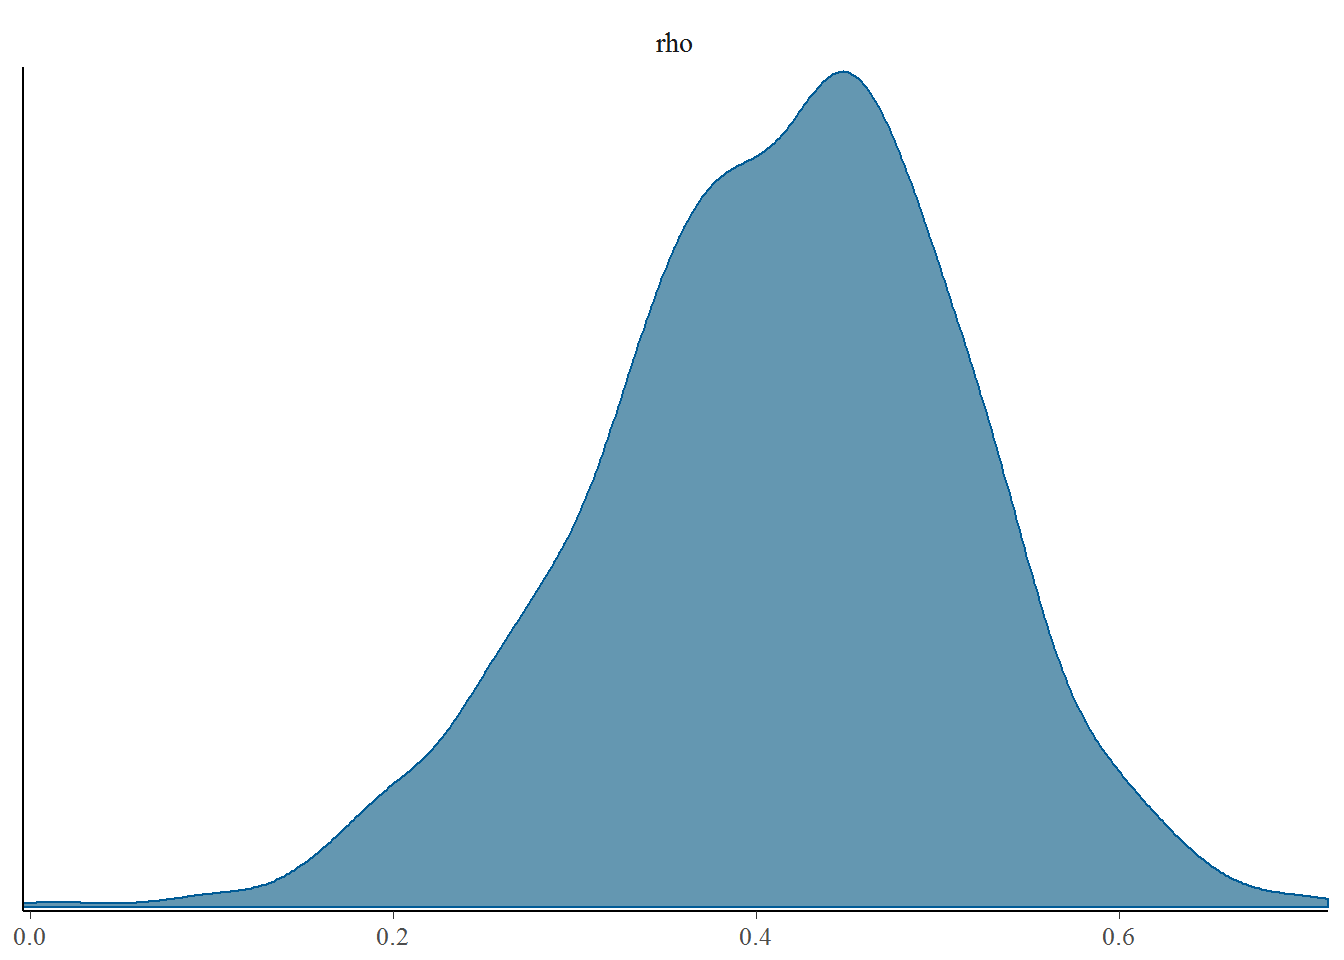
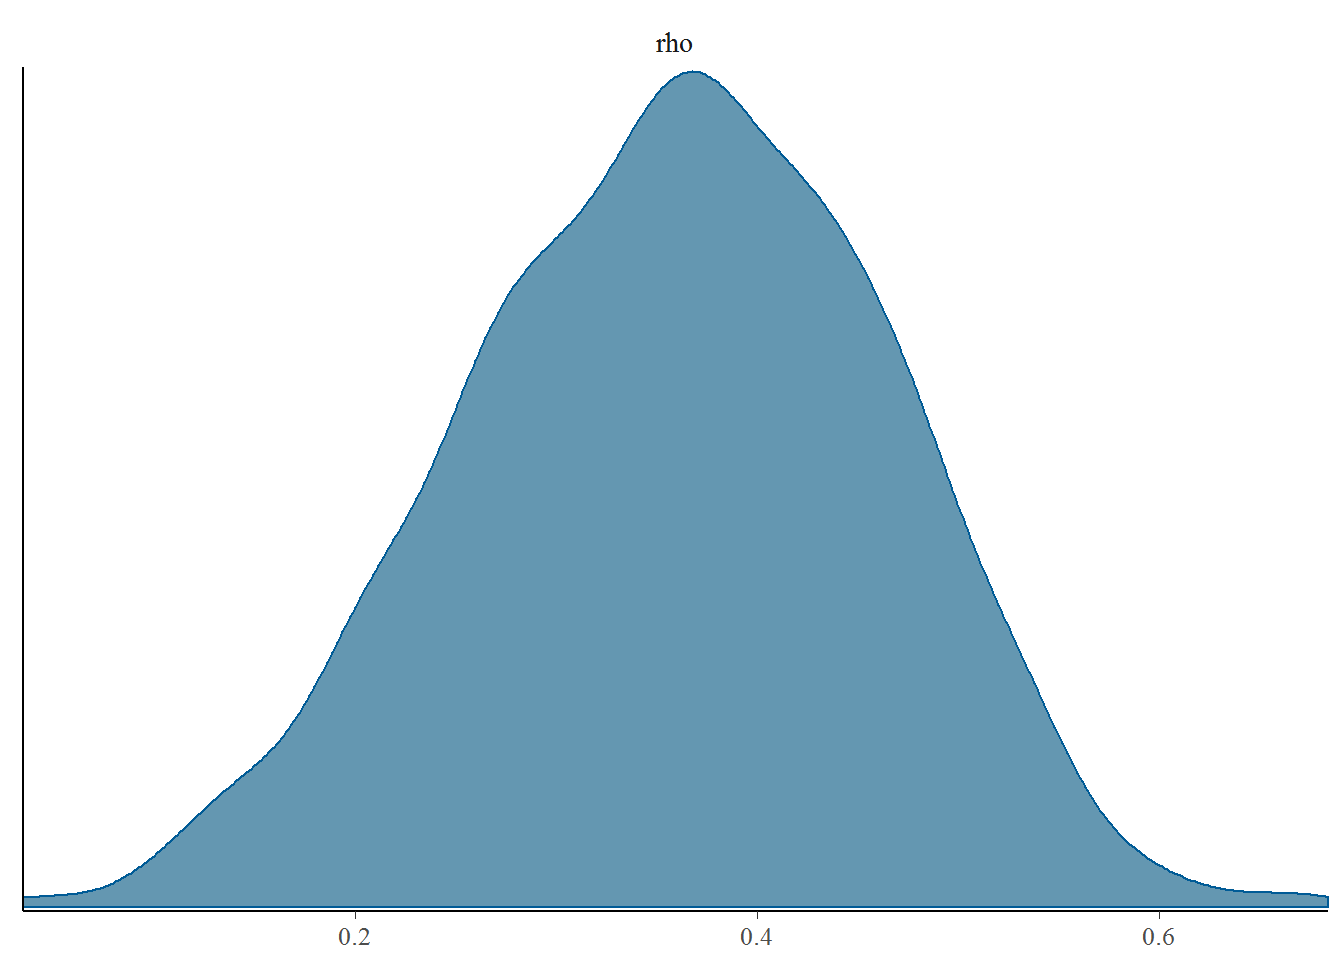
Updated README and intro vignette

diff --git a/docs/articles/introduction.html b/docs/articles/introduction.html
@@ -174,132 +174,27 @@ fit &lt;-<span class="st"> </span><span class="kw"><a href="../reference/censcor
 df &lt;-<span class="st"> </span><span class="kw"><a href="../reference/generate_censored_data.html">generate_censored_data</a></span>(<span class="dt">N =</span> <span class="dv">100</span>, <span class="dt">rho =</span> <span class="fl">0.5</span>, <span class="dt">L_prob =</span> <span class="fl">0.5</span>, <span class="dt">direction =</span> <span class="op">-</span><span class="dv">1</span>)
 
 fit &lt;-<span class="st"> </span><span class="kw"><a href="../reference/censcor.html">censcor</a></span>(x <span class="op">|</span><span class="st"> </span><span class="kw">cens</span>(x_cens, x_upper) <span class="op">~</span><span class="st"> </span>y <span class="op">|</span><span class="st"> </span><span class="kw">cens</span>(y_cens, y_upper), df, <span class="dt">iter =</span> <span class="dv">600</span>)</code></pre></div>
-<pre><code>## 
-## SAMPLING FOR MODEL 'censored_correlations_interval' NOW (CHAIN 1).
-## 
-## Gradient evaluation took 0.001 seconds
-## 1000 transitions using 10 leapfrog steps per transition would take 10 seconds.
-## Adjust your expectations accordingly!
-## 
-## 
-## Iteration:   1 / 600 [  0%]  (Warmup)
-## Iteration:  60 / 600 [ 10%]  (Warmup)
-## Iteration: 120 / 600 [ 20%]  (Warmup)
-## Iteration: 180 / 600 [ 30%]  (Warmup)
-## Iteration: 240 / 600 [ 40%]  (Warmup)
-## Iteration: 300 / 600 [ 50%]  (Warmup)
-## Iteration: 301 / 600 [ 50%]  (Sampling)
-## Iteration: 360 / 600 [ 60%]  (Sampling)
-## Iteration: 420 / 600 [ 70%]  (Sampling)
-## Iteration: 480 / 600 [ 80%]  (Sampling)
-## Iteration: 540 / 600 [ 90%]  (Sampling)
-## Iteration: 600 / 600 [100%]  (Sampling)
-## 
-##  Elapsed Time: 0.452 seconds (Warm-up)
-##                0.337 seconds (Sampling)
-##                0.789 seconds (Total)
-## 
-## 
-## SAMPLING FOR MODEL 'censored_correlations_interval' NOW (CHAIN 2).
-## 
-## Gradient evaluation took 0 seconds
-## 1000 transitions using 10 leapfrog steps per transition would take 0 seconds.
-## Adjust your expectations accordingly!
-## 
-## 
-## Iteration:   1 / 600 [  0%]  (Warmup)
-## Iteration:  60 / 600 [ 10%]  (Warmup)
-## Iteration: 120 / 600 [ 20%]  (Warmup)
-## Iteration: 180 / 600 [ 30%]  (Warmup)
-## Iteration: 240 / 600 [ 40%]  (Warmup)
-## Iteration: 300 / 600 [ 50%]  (Warmup)
-## Iteration: 301 / 600 [ 50%]  (Sampling)
-## Iteration: 360 / 600 [ 60%]  (Sampling)
-## Iteration: 420 / 600 [ 70%]  (Sampling)
-## Iteration: 480 / 600 [ 80%]  (Sampling)
-## Iteration: 540 / 600 [ 90%]  (Sampling)
-## Iteration: 600 / 600 [100%]  (Sampling)
-## 
-##  Elapsed Time: 0.377 seconds (Warm-up)
-##                0.338 seconds (Sampling)
-##                0.715 seconds (Total)
-## 
-## 
-## SAMPLING FOR MODEL 'censored_correlations_interval' NOW (CHAIN 3).
-## 
-## Gradient evaluation took 0 seconds
-## 1000 transitions using 10 leapfrog steps per transition would take 0 seconds.
-## Adjust your expectations accordingly!
-## 
-## 
-## Iteration:   1 / 600 [  0%]  (Warmup)
-## Iteration:  60 / 600 [ 10%]  (Warmup)
-## Iteration: 120 / 600 [ 20%]  (Warmup)
-## Iteration: 180 / 600 [ 30%]  (Warmup)
-## Iteration: 240 / 600 [ 40%]  (Warmup)
-## Iteration: 300 / 600 [ 50%]  (Warmup)
-## Iteration: 301 / 600 [ 50%]  (Sampling)
-## Iteration: 360 / 600 [ 60%]  (Sampling)
-## Iteration: 420 / 600 [ 70%]  (Sampling)
-## Iteration: 480 / 600 [ 80%]  (Sampling)
-## Iteration: 540 / 600 [ 90%]  (Sampling)
-## Iteration: 600 / 600 [100%]  (Sampling)
-## 
-##  Elapsed Time: 0.424 seconds (Warm-up)
-##                0.35 seconds (Sampling)
-##                0.774 seconds (Total)
-## 
-## [1] "The following numerical problems occurred the indicated number of times on chain 3"
-##                                                                                                      count
-## Exception thrown at line 81: multi_normal_lpdf: LDLT_Factor of covariance parameter is not positive      2
-## [1] "When a numerical problem occurs, the Hamiltonian proposal gets rejected."
-## [1] "See http://mc-stan.org/misc/warnings.html#exception-hamiltonian-proposal-rejected"
-## [1] "If the number in the 'count' column is small,  there is no need to ask about this message on stan-users."
-## 
-## SAMPLING FOR MODEL 'censored_correlations_interval' NOW (CHAIN 4).
-## 
-## Gradient evaluation took 0.001 seconds
-## 1000 transitions using 10 leapfrog steps per transition would take 10 seconds.
-## Adjust your expectations accordingly!
-## 
-## 
-## Iteration:   1 / 600 [  0%]  (Warmup)
-## Iteration:  60 / 600 [ 10%]  (Warmup)
-## Iteration: 120 / 600 [ 20%]  (Warmup)
-## Iteration: 180 / 600 [ 30%]  (Warmup)
-## Iteration: 240 / 600 [ 40%]  (Warmup)
-## Iteration: 300 / 600 [ 50%]  (Warmup)
-## Iteration: 301 / 600 [ 50%]  (Sampling)
-## Iteration: 360 / 600 [ 60%]  (Sampling)
-## Iteration: 420 / 600 [ 70%]  (Sampling)
-## Iteration: 480 / 600 [ 80%]  (Sampling)
-## Iteration: 540 / 600 [ 90%]  (Sampling)
-## Iteration: 600 / 600 [100%]  (Sampling)
-## 
-##  Elapsed Time: 0.433 seconds (Warm-up)
-##                0.365 seconds (Sampling)
-##                0.798 seconds (Total)</code></pre>
 <div class="sourceCode"><pre class="sourceCode r"><code class="sourceCode r">fit</code></pre></div>
 <pre><code>## Inference for Stan model: censored_correlations_interval.
 ## 4 chains, each with iter=600; warmup=300; thin=1; 
 ## post-warmup draws per chain=300, total post-warmup draws=1200.
 ## 
 ##            mean se_mean   sd    2.5%     25%     50%     75%   97.5% n_eff
-## sigma_x    1.28    0.01 0.15    1.03    1.18    1.27    1.38    1.60   866
-## sigma_y    1.06    0.00 0.11    0.86    0.98    1.05    1.12    1.29  1094
-## mu_x      -0.12    0.01 0.16   -0.47   -0.22   -0.11   -0.01    0.17   862
-## mu_y       0.12    0.00 0.12   -0.13    0.04    0.12    0.20    0.34  1029
-## rho        0.41    0.00 0.10    0.20    0.35    0.42    0.48    0.60   964
-## lp__    -218.28    0.07 1.52 -221.96 -219.13 -217.96 -217.16 -216.22   480
+## sigma_x    0.96    0.00 0.11    0.77    0.88    0.94    1.02    1.23   837
+## sigma_y    0.83    0.00 0.10    0.67    0.76    0.82    0.89    1.03   851
+## mu_x       0.09    0.00 0.12   -0.15    0.01    0.09    0.17    0.30   940
+## mu_y       0.16    0.00 0.10   -0.07    0.09    0.17    0.23    0.34   534
+## rho        0.41    0.00 0.11    0.19    0.34    0.42    0.48    0.59   789
+## lp__    -191.71    0.08 1.68 -195.86 -192.66 -191.36 -190.48 -189.49   489
 ##         Rhat
-## sigma_x    1
-## sigma_y    1
-## mu_x       1
-## mu_y       1
-## rho        1
-## lp__       1
+## sigma_x 1.00
+## sigma_y 1.00
+## mu_x    1.00
+## mu_y    1.01
+## rho     1.00
+## lp__    1.01
 ## 
-## Samples were drawn using NUTS(diag_e) at Thu Nov 16 12:43:21 2017.
+## Samples were drawn using NUTS(diag_e) at Thu Nov 16 15:41:11 2017.
 ## For each parameter, n_eff is a crude measure of effective sample size,
 ## and Rhat is the potential scale reduction factor on split chains (at 
 ## convergence, Rhat=1).</code></pre>
@@ -307,7 +202,7 @@ fit &lt;-<span class="st"> </span><span class="kw"><a href="../reference/censcor
 <div class="sourceCode"><pre class="sourceCode r"><code class="sourceCode r"><span class="kw">library</span>(bayesplot)</code></pre></div>
 <pre><code>## This is bayesplot version 1.2.0</code></pre>
 <div class="sourceCode"><pre class="sourceCode r"><code class="sourceCode r"><span class="kw"><a href="http://www.rdocumentation.org/packages/bayesplot/topics/MCMC-distributions">mcmc_dens</a></span>(<span class="kw">as.array</span>(fit), <span class="dt">pars =</span> <span class="kw">c</span>(<span class="st">"rho"</span>))</code></pre></div>
-<p><img src="introduction_files/figure-html/unnamed-chunk-9-1.png" width="672"></p>
+<p><img src="introduction_files/figure-html/unnamed-chunk-10-1.png" width="672"></p>
 </div>
 </div>
 </div>

diff --git a/docs/index.html b/docs/index.html
@@ -73,11 +73,31 @@
 <div id="censcor" class="section level1">
 <div class="page-header"><h1 class="hasAnchor">
 <a href="#censcor" class="anchor"></a>censcor</h1></div>
-<p><code>censcor</code> is an R package for estimating correlations between censored variables.</p>
+<p><code>censcor</code> is an R package for estimating correlations between censored variables. <code>censcor</code> works by fitting a multivariate normal distribution to the data using <a href="http://mc-stan.org">Stan</a>.</p>
 <div id="install" class="section level2">
 <h2 class="hasAnchor">
 <a href="#install" class="anchor"></a>Install</h2>
 <div class="sourceCode"><pre class="sourceCode r"><code class="sourceCode r">devtools<span class="op">::</span><span class="kw"><a href="http://www.rdocumentation.org/packages/devtools/topics/install_github">install_github</a></span>(<span class="st">"silentspringinstitute/censcor"</span>, <span class="dt">args =</span> <span class="st">"--preclean"</span>)</code></pre></div>
+</div>
+<div id="documentation" class="section level2">
+<h2 class="hasAnchor">
+<a href="#documentation" class="anchor"></a>Documentation</h2>
+<p>Documentation and vignettes for the package are available on the <a href="https://silentspringinstitute.github.io/censcor"><code>censcor</code> website.</a></p>
+</div>
+<div id="examples" class="section level2">
+<h2 class="hasAnchor">
+<a href="#examples" class="anchor"></a>Examples</h2>
+<div class="sourceCode"><pre class="sourceCode r"><code class="sourceCode r">
+<span class="co"># Generate 100 x and y values with a 0.5 correlation coefficient and no censoring</span>
+df &lt;-<span class="st"> </span><span class="kw"><a href="reference/generate_censored_data.html">generate_censored_data</a></span>(<span class="dt">N =</span> <span class="dv">100</span>, <span class="dt">rho =</span> <span class="fl">0.5</span>, <span class="dt">L_prob =</span> <span class="dv">0</span>)
+
+fit &lt;-<span class="st"> </span><span class="kw"><a href="reference/censcor.html">censcor</a></span>(x <span class="op">~</span><span class="st"> </span>y, df)
+
+<span class="co"># Fit dataset with left censoring in both x and y</span>
+df &lt;-<span class="st"> </span><span class="kw"><a href="reference/generate_censored_data.html">generate_censored_data</a></span>(<span class="dt">N =</span> <span class="dv">100</span>, <span class="dt">rho =</span> <span class="fl">0.5</span>, <span class="dt">L_prob =</span> <span class="fl">0.5</span>, <span class="dt">direction =</span> <span class="op">-</span><span class="dv">1</span>)
+
+fit &lt;-<span class="st"> </span><span class="kw"><a href="reference/censcor.html">censcor</a></span>(x <span class="op">|</span><span class="st"> </span><span class="kw">cens</span>(x_cens) <span class="op">~</span><span class="st"> </span>y <span class="op">|</span><span class="st"> </span><span class="kw">cens</span>(y_cens), df)</code></pre></div>
+<p>You can find more examples in the <a href="https://silentspringinstitute.github.io/censcor/articles/introduction.html">Introduction to censcor</a> vignette.</p>
 </div>
 </div>
 

diff --git a/docs/reference/censcor.html b/docs/reference/censcor.html
@@ -154,6 +154,10 @@ for interval censored values.</p>
 - sigma_y, the estimated standard deviation of the y variable
 - rho, the estimated correlation between x and y</p>
     
+    <h2 class="hasAnchor" id="references"><a class="anchor" href="#references"></a>References</h2>
+
+    <p>Newton, Elizabeth, and Ruthann Rudel. "Estimating correlation with multiply censored data arising from the adjustment of singly censored data." Environmental science &amp; technology 41.1 (2007): 221-228.</p>
+    
     <h2 class="hasAnchor" id="see-also"><a class="anchor" href="#see-also"></a>See also</h2>
 
     <p>generate_censored_data</p>
@@ -188,6 +192,8 @@ for interval censored values.</p>
       <li><a href="#value">Value</a></li>
 
       <li><a href="#details">Details</a></li>
+
+      <li><a href="#references">References</a></li>
 
       <li><a href="#see-also">See also</a></li>
       

diff --git a/README.md b/README.md
@@ -1,10 +1,32 @@
 ![Travis CI status](https://travis-ci.org/SilentSpringInstitute/censcor.svg?branch=master)
 
 # censcor
-`censcor` is an R package for estimating correlations between censored variables.
+`censcor` is an R package for estimating correlations between censored variables. `censcor` works by fitting a multivariate normal distribution to the data using [Stan](http://mc-stan.org).
 
 ## Install
 
 ```r
 devtools::install_github("silentspringinstitute/censcor", args = "--preclean")
 ```
+
+## Documentation
+
+Documentation and vignettes for the package are available on the [`censcor` website.](https://silentspringinstitute.github.io/censcor)
+
+## Examples
+
+```r
+
+# Generate 100 x and y values with a 0.5 correlation coefficient and no censoring
+df <- generate_censored_data(N = 100, rho = 0.5, L_prob = 0)
+
+fit <- censcor(x ~ y, df)
+
+# Fit dataset with left censoring in both x and y
+df <- generate_censored_data(N = 100, rho = 0.5, L_prob = 0.5, direction = -1)
+
+fit <- censcor(x | cens(x_cens) ~ y | cens(y_cens), df)
+
+```
+
+You can find more examples in the [Introduction to censcor](https://silentspringinstitute.github.io/censcor/articles/introduction.html) vignette.
